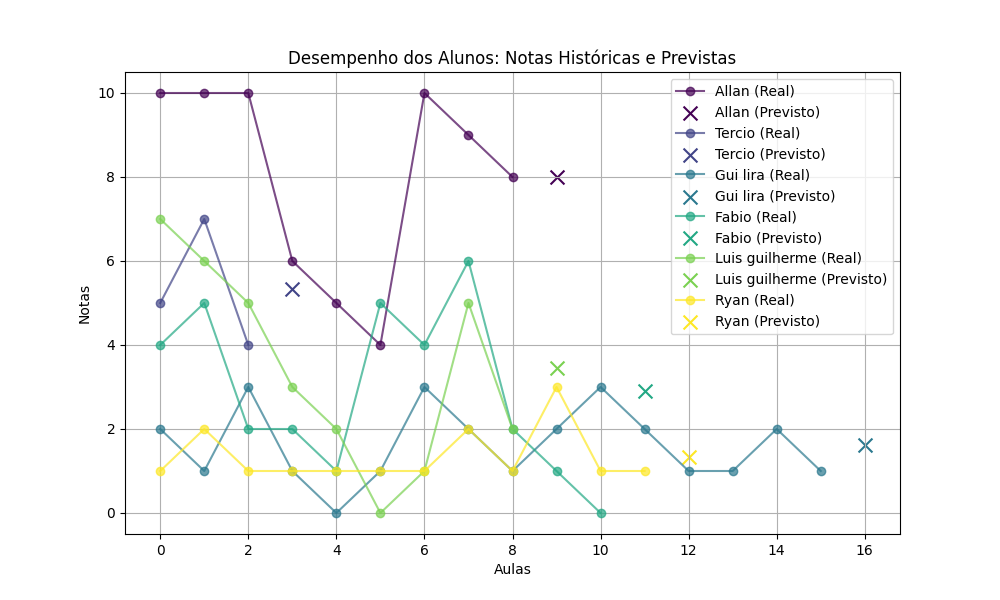
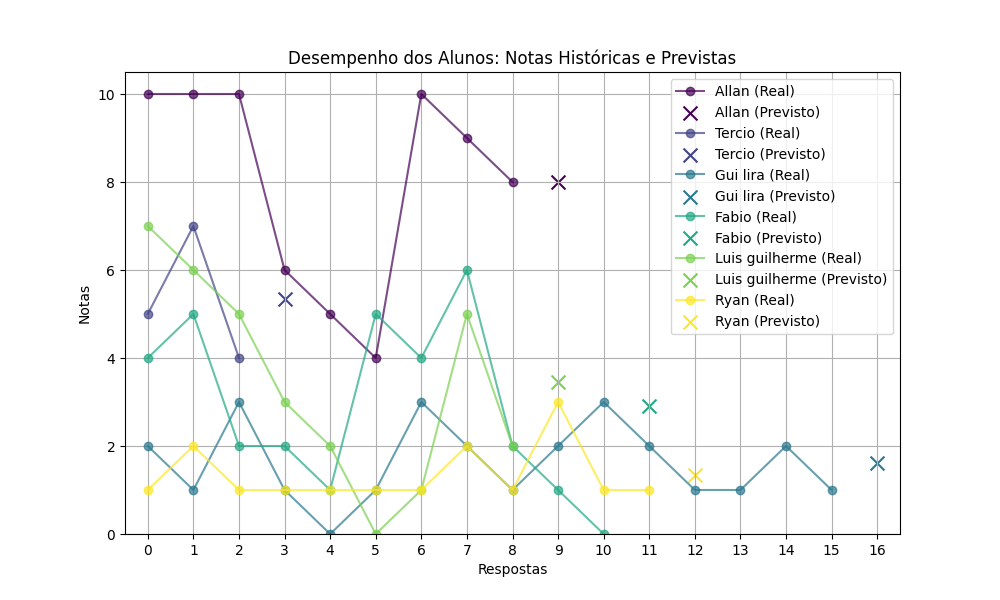
..

diff --git a/routes/teacher_routes.py b/routes/teacher_routes.py
@@ -13,14 +13,13 @@ from utils import (
     prever_notas,generate_performance_by_topic_plot
 )
 from sklearn.cluster import KMeans
-import numpy as np
 import sqlite3
 from collections import defaultdict
 
 teacher_bp = Blueprint('teacher', __name__)
 
 ALLOWED_EXTENSIONS = {'pdf', 'doc', 'docx', 'txt'}
-UPLOAD_FOLDER = os.path.join('static', 'uploads')
+UPLOAD_FOLDER = "mysite/static/uploads"
 
 def allowed_file(filename):
     return '.' in filename and filename.rsplit('.', 1)[1].lower() in ALLOWED_EXTENSIONS
@@ -37,11 +36,11 @@ def dashboard_professor():
 
         alunos_data = get_student_scores()
         alunos_dict = {}
-        
+
         for aluno_id, nome, nota, titulo, concluida in alunos_data:
             if nome not in alunos_dict:
-                alunos_dict[nome] = {'total_notas': 0, 'num_notas': 0}  
-            if nota is not None: 
+                alunos_dict[nome] = {'total_notas': 0, 'num_notas': 0}
+            if nota is not None:
                 alunos_dict[nome]['total_notas'] += nota
                 alunos_dict[nome]['num_notas'] += 1
             else:
@@ -83,9 +82,9 @@ def criarAula():
             print("Todos os campos são obrigatórios", "error")
             return redirect(url_for('teacher.criarAula'))
 
-        conteudo_nome = None  
+        conteudo_nome = None
         conteudo_file = request.files.get('file')
-        
+
         if conteudo_file and allowed_file(conteudo_file.filename):
             try:
                 filename = secure_filename(conteudo_file.filename)
@@ -95,13 +94,13 @@ def criarAula():
             except Exception as e:
                 print('Erro ao salvar o arquivo: {}'.format(e), 'error')
                 return redirect(url_for('teacher.criarAula'))
-        
+
         if conteudo_nome is None and not request.form.get("conteudo"):
             print("Você deve enviar um arquivo ou fornecer o conteúdo da aula.", "error")
             return redirect(url_for('teacher.criarAula'))
 
         conteudo = request.form.get("conteudo") if conteudo_nome is None else conteudo_nome
-        
+
         try:
             criar_aula(user_id, titulo, descricao, conteudo, perguntas, topico, conteudo_nome)
             print("Aula criada com sucesso!", "success")
@@ -115,7 +114,7 @@ def criarAula():
 def ver_feedbacks():
     if session.get('user') and session.get('tipo') == 'professor':
         user_id = session.get('user')
-        
+
         feedbacks = {}
         progresso_por_aluno = {}
         total_alunos = set()
@@ -125,7 +124,7 @@ def ver_feedbacks():
         plot_url = None
         previsoes = {}
         print("Start processing feedbacks")
-        
+
         try:
             aulas = get_aulas_by_professor(user_id)
             print(f"Aulas encontradas: {aulas}")
@@ -137,18 +136,18 @@ def ver_feedbacks():
                 aula_id = aula[0]
                 titulo_aula = aula[2]
                 print(f"Processing aula_id: {aula_id}, titulo: {titulo_aula}")
-                
+
                 respostas = get_respostas_by_aula(aula_id)
                 print(f"Respostas para aula {aula_id} ({titulo_aula}): {respostas}")
-                
+
                 if respostas is None:
                     print(f"Erro ao buscar respostas para a aula {titulo_aula}.")
-                    continue   
-                
+                    continue
+
                 feedbacks[titulo_aula] = respostas if respostas else []
                 progresso = get_progresso_by_aula(aula_id)
                 print(f"Progresso para aula {aula_id}: {progresso}")
-                
+
                 if progresso is None:
                     print(f"Erro ao buscar progresso para a aula {titulo_aula}.")
                     continue
@@ -159,10 +158,9 @@ def ver_feedbacks():
                     progresso_por_aluno[nome] = aluno['concluida']
                 for resposta in respostas:
                     aluno_id = resposta['user_id']
-                    nota = resposta['nota'] if 'nota' in resposta else 0 
-                    topico = resposta['topico'] if 'topico' in resposta else "Robótica"  
+                    nota = resposta['nota'] if 'nota' in resposta else 0
+                    topico = resposta['topico'] if 'topico' in resposta else "Robótica"
 
-                    # Verifique se nota é numérica
                     if isinstance(nota, (int, float)):
                         notas_por_aula[aula_id].append(nota)
                         if topico:
@@ -188,12 +186,12 @@ def ver_feedbacks():
             progresso = np.array([entry['progresso'] for aluno in alunos_data.values() for entry in aluno['historico']])
 
             if len(notas) > 0:
-                kmeans = KMeans(n_clusters=3)  
+                kmeans = KMeans(n_clusters=3)
                 X = np.column_stack((notas, progresso))
                 kmeans.fit(X)
                 labels = kmeans.labels_
 
-                grupos_alunos = {i: [] for i in range(3)} 
+                grupos_alunos = {i: [] for i in range(3)}
 
                 for i, aluno in enumerate(alunos_data.keys()):
                     grupos_alunos[labels[i]].append(aluno)
@@ -221,7 +219,7 @@ def ver_feedbacks():
                 medias_por_aula=medias_por_aula,
                 medias_por_topico=medias_por_topico,
                 total_alunos=len(total_alunos),
-                grupos=grupos_alunos 
+                grupos=grupos_alunos
             )
         except Exception as e:
             print(f"Erro ao carregar feedbacks: {e}")
@@ -234,7 +232,7 @@ def ver_feedbacks():
                 medias_por_aula={},
                 medias_por_topico={},
                 total_alunos=len(total_alunos),
-                grupos={} 
+                grupos={}
             )
     return redirect(url_for('auth.login'))
 
@@ -251,7 +249,7 @@ def classificar_aluno(notas):
 def avaliar_alunos():
     if 'user' not in session or session['tipo'] != 'professor':
         return redirect(url_for('auth.login'))
-    
+
     try:
         alunos = get_alunos()
         return render_template('avaliar_alunos.html', alunos=alunos)
@@ -322,10 +320,10 @@ def analisar_desempenho():
         plot_url = generate_cluster_plot(X, labels, centroids, alunos_data)
         student_performance_plot_url = generate_student_performance_plot(alunos_data)
 
-        return render_template('analisar_desempenho.html', 
-                               plot_url=plot_url, 
-                               student_performance_plot_url=student_performance_plot_url, 
-                               performance_by_topic_plot_url=performance_by_topic_plot_url, 
+        return render_template('analisar_desempenho.html',
+                               plot_url=plot_url,
+                               student_performance_plot_url=student_performance_plot_url,
+                               performance_by_topic_plot_url=performance_by_topic_plot_url,
                                alunos_data=alunos_data)
 
     except Exception as e:

diff --git a/utils.py b/utils.py
@@ -1,5 +1,4 @@
 import matplotlib.pyplot as plt
-import os
 import numpy as np
 from sklearn.cluster import KMeans
 from sklearn.linear_model import LinearRegression
@@ -9,13 +8,13 @@ from collections import defaultdict
 
 def kmeans_clustering(alunos_data):
     notas = np.array([nota for _, _, nota, _, _ in alunos_data if isinstance(nota, (int, float))]).reshape(-1, 1)
-    
+
     if notas.size == 0:
         return None, None, None
 
-    num_clusters = min(3, len(set(notas.flatten())))  
+    num_clusters = min(3, len(set(notas.flatten())))
     kmeans = KMeans(n_clusters=num_clusters, random_state=0, n_init=10)
-    
+
     labels = kmeans.fit_predict(notas)
     centroids = kmeans.cluster_centers_
 
@@ -29,50 +28,49 @@ def generate_cluster_plot(X, labels, centroids, alunos_data):
         return None
 
     topico_indices = {topico: i for i, topico in enumerate(topicos)}
-    
+
     unique_alunos = sorted(set(aluno[1] for aluno in alunos_data))
     colors = plt.cm.viridis(np.linspace(0, 1, len(unique_alunos)))
     aluno_colors = {nome: colors[i] for i, nome in enumerate(unique_alunos)}
 
     jitter_strength_x = 0.1
-    jitter_strength_y = 0.2
+    jitter_strength_y = 0.1
 
     notas_por_aluno = defaultdict(list)
 
     for aluno in alunos_data:
         if len(aluno) < 4:
-            continue 
+            continue
 
         nome = aluno[1]
         nota = aluno[2]
         topico = aluno[4]
         notas_por_aluno[nome].append((nota, topico))
 
+    # Plotar notas de cada aluno
     for aluno, notas in notas_por_aluno.items():
         for nota, topico in notas:
             y_pos = topico_indices[topico]
-            x_pos = nota + np.random.uniform(-jitter_strength_x, jitter_strength_x)
-            y_pos += np.random.uniform(-jitter_strength_y, jitter_strength_y)
+            x_pos = float(nota) + np.random.uniform(-jitter_strength_x, jitter_strength_x)  # Jitter em X
+            y_pos += np.random.uniform(-jitter_strength_y, jitter_strength_y)  # Jitter em Y
             plt.scatter(x_pos, y_pos, color=aluno_colors[aluno], marker='o', edgecolor='k', s=100, alpha=0.7)
 
     for aluno, color in aluno_colors.items():
         plt.scatter([], [], color=color, label=aluno, marker='o', s=100)
     plt.legend(title="Alunos", loc="upper right", bbox_to_anchor=(1.10, 1))
 
-    if centroids is not None:
-        for centroid in centroids:
-            plt.scatter(centroid, -0.5, color='red', marker='X', s=150, edgecolor='k')
-
     plt.title('Notas dos Alunos por Aulas')
     plt.xlabel('Notas')
     plt.ylabel('Aulas')
     plt.yticks(range(len(topicos)), topicos)
+
+    plt.xlim(0, 11)
     plt.grid(True, linestyle='--', linewidth=0.5)
 
     plot_path = 'static/images/cluster_plot.png'
     plt.savefig(plot_path)
     plt.close()
-    
+
     return 'cluster_plot.png'
 
 def generate_student_performance_plot(alunos_data):
@@ -120,34 +118,39 @@ def generate_performance_plot(alunos_data, previsoes):
 
     cores = plt.cm.viridis(np.linspace(0, 1, len(alunos_data)))
 
+    max_aulas = 0
+
     for i, (nome, dados) in enumerate(alunos_data.items()):
         notas = [entry['nota'] for entry in dados['historico']]
-        cor_aluno = cores[i]   
+        max_aulas = max(max_aulas, len(notas))
+        cor_aluno = cores[i]
         plt.plot(notas, color=cor_aluno, marker='o', label=f'{nome} (Real)', alpha=0.7)
 
         if nome in previsoes:
             previsao = previsoes[nome]
-            plt.scatter(len(notas), previsao['proxima_nota'], 
+            plt.scatter(len(notas), previsao['proxima_nota'],
                         color=cor_aluno, marker='x', s=100, label=f'{nome} (Previsto)', alpha=1)
 
     plt.title('Desempenho dos Alunos: Notas Históricas e Previstas')
-    plt.xlabel('Aulas')
+    plt.xlabel('Respostas')
     plt.ylabel('Notas')
+    plt.xticks(range(max_aulas + 1))
+    plt.xlim(-0.5, max_aulas + 0.5)
+    plt.ylim(0, 10.5)
     plt.legend()
     plt.grid()
 
-    img_dir = os.path.join(os.getcwd(), 'static', 'images')
-    os.makedirs(img_dir, exist_ok=True)
-
-    plot_url = os.path.join('static', 'images', 'performance_plot.png')
+    plot_url = 'static/images/performance_plot.png'
     plt.savefig(plot_url)
     plt.close()
 
-    return plot_url
+    return "performance_plot.png"
+
+
 
 def prever_notas(alunos_data):
     previsoes = {}
-    
+
     for nome, dados in alunos_data.items():
         historico_progresso = [entry['progresso'] for entry in dados['historico']]
         historico_notas = [entry['nota'] for entry in dados['historico']]
@@ -155,7 +158,7 @@ def prever_notas(alunos_data):
         if len(historico_progresso) >= 3:
             X_hist = np.array(historico_progresso).reshape(-1, 1)
             y_notas = np.array(historico_notas)
-            
+
             modelo_notas = LinearRegression()
             modelo_notas.fit(X_hist, y_notas)
 
